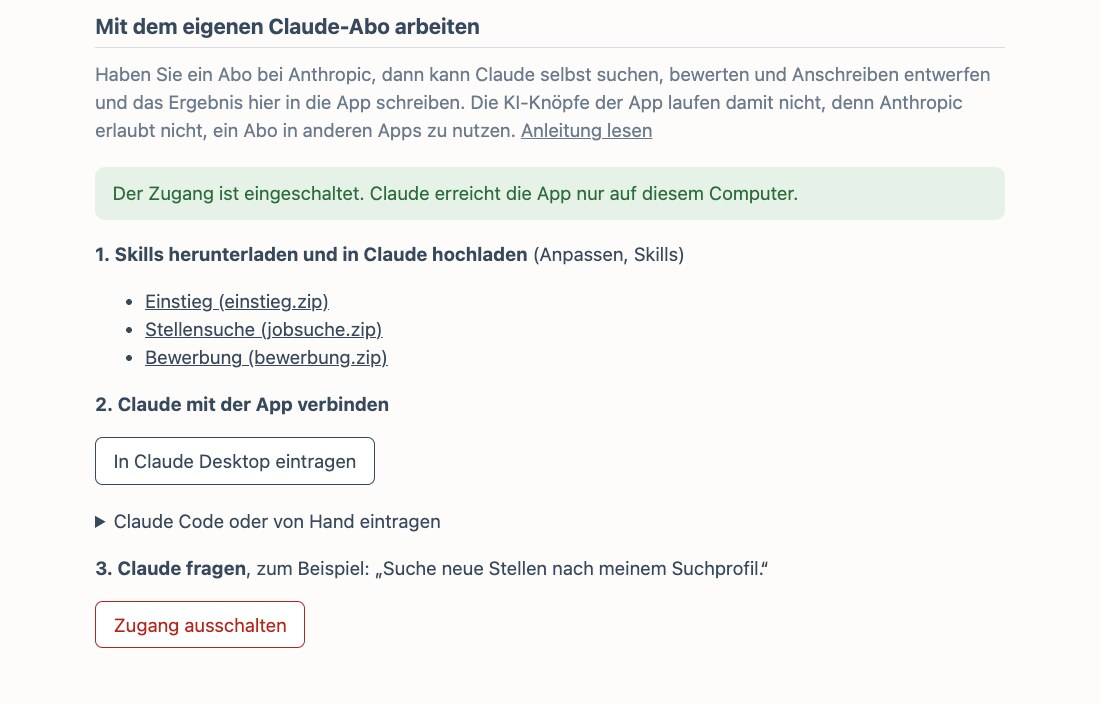
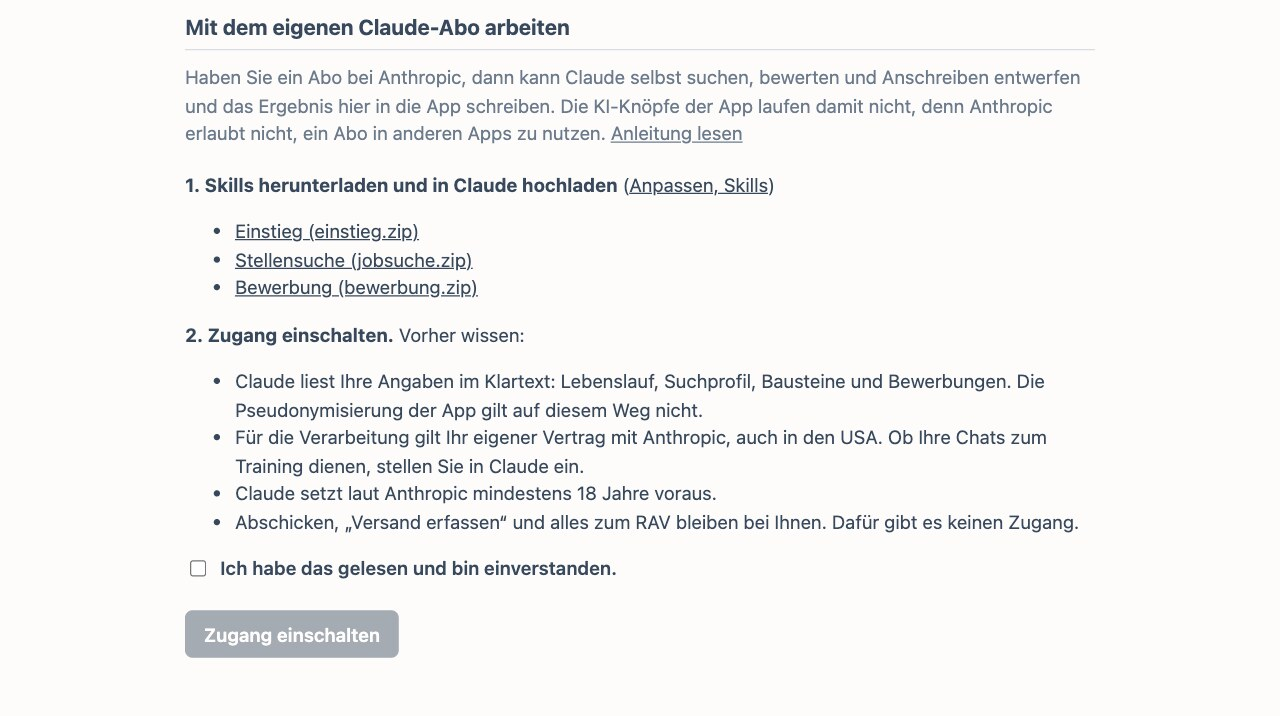
fix: an application can be prepared in the app alone, and says what it still needs (MIN-346)
Nothing in the app ever created a CV variant. Without one no PDF could be built, and without a PDF the box in the
overview stayed disabled with its reason only in a tooltip: whoever worked without Claude could not apply at all.
- Without any variant, „Unterlagen erstellen“ builds the whole CV. With variants the person still has to choose.
- Open applications say in the row what is missing and link to where to do it; the hint says when none is ready.
- The messages name the next step instead of a file or a field.

Settings (MIN-377): the skills can be downloaded at once, before the access is switched on.

Snapshot on LinkedIn (MIN-345): if the title of the tab does not name the company, it comes from the link to the
company's page next to the title of the ad. Checked on a page built like it, not on the real LinkedIn.

Claude-Session: https://claude.ai/code/session_01WgFHS5MLF7RQbuiBw169Uz

diff --git a/bewerbungen/seiten/uebersicht.js b/bewerbungen/seiten/uebersicht.js
@@ -20,6 +20,7 @@
   const ANSWER_TIMEOUT_MS = 60000;
   const ANSICHT = "uebersicht.ansicht";  // Sortierung, Suche, Filter und Scrollposition bleiben beim Seitenwechsel erhalten
   let wiederhergestellt = false;  // Scrollposition erst speichern, wenn die gemerkte gesetzt ist
+  const OFFENER_STATUS = ["Gemerkt", "Bewerben"];
   let alle = [];
   let gezeigt = "";  // the register as last drawn, to see whether Claude changed it
   let statusReihe = [];
@@ -87,12 +88,17 @@
   const toApply = () => [...chosen].filter(id => blockers.get(id) === null);
   const toEnter = () => [...chosen].filter(id => ravBlockers.get(id) === null);
 
+  /** What still stands between an open application and „Bewerben“; sent ones have nothing to do here. */
+  const fehltNoch = b => (OFFENER_STATUS.includes(b.status) ? blockers.get(b.id) : null);
+
   function updateChoice() {
     const count = toApply().length;
     $("bewerben").disabled = count === 0 || count > maxPerRun;
     $("bewerben").textContent = count ? `Bewerben (${count})` : "Bewerben";
+    const keineBereit = alle.some(fehltNoch) && ![...blockers.values()].includes(null);
     $("bewerben-hilfe").textContent = count > maxPerRun
       ? `Pro Durchgang höchstens ${maxPerRun}.`
+      : keineBereit ? "Noch ist keine Bewerbung bereit. Was fehlt, steht bei der Firma."
       : "Öffnet pro Bewerbung einen Tab und füllt das Formular aus. Abschicken bleibt bei Ihnen.";
     const entries = toEnter().length;
     $("rav").disabled = entries === 0 || entries > maxRav;
@@ -122,10 +128,12 @@
   }
 
   function zeile(b) {
-    const link = el("a", { href: "/bewerbung?id=" + encodeURIComponent(b.id) }, b.firma);
+    const adresse = "/bewerbung?id=" + encodeURIComponent(b.id);
+    const link = el("a", { href: adresse }, b.firma);
+    const fehlt = fehltNoch(b);
     return el("tr", {},
       el("td", {}, choiceBox(b)),
-      el("td", {}, link),
+      el("td", {}, link, fehlt ? el("a", { href: adresse, class: "fehlt-noch" }, fehlt) : null),
       el("td", {}, b.stelle),
       el("td", {}, el("span", { class: "marke-status", "data-status": b.status }, b.status)),
       el("td", { class: "zahl" }, b.passung ?? ""),
@@ -261,6 +269,7 @@
       await loadChoice();
       gezeigt = JSON.stringify(daten.bewerbungen);
       alle = daten.bewerbungen;
+      updateChoice();  // its hint depends on the applications, which loadChoice does not have yet
       statusReihe = daten.status;
       $("statusfilter").replaceChildren(el("option", { value: "" }, "Alle Status"),
         ...daten.status.map(s => el("option", { value: s }, `${s} (${alle.filter(b => b.status === s).length})`)));

diff --git a/erweiterung/lib/page-ad.js b/erweiterung/lib/page-ad.js
@@ -27,12 +27,23 @@ export function readPage() {
   const field = 300;
   // The main part of the page where it has one: side panels may show messages and names of other people.
   const main = document.querySelector('main, [role="main"], article');
+  // The link to the company's page beside the title of the ad; a page may list other companies further away.
+  const companyIn = (box) => [...box.querySelectorAll('a[href*="/company/"]')].map((link) => (link.innerText || '').trim().split('\n')[0]).find(Boolean) || '';
+  const companyLink = () => {
+    let box = document.querySelector('h1');
+    for (let level = 0; box && level < 8; level += 1, box = box.parentElement) {
+      const name = companyIn(box);
+      if (name) return name;
+    }
+    return main ? companyIn(main) : '';
+  };
   return {
     url: location.href,
     title: (document.title || '').slice(0, field),
     heading: (document.querySelector('h1')?.innerText || '').trim().slice(0, field),
     siteName: meta('og:site_name').slice(0, field),
     ogTitle: meta('og:title').slice(0, field),
+    companyLink: companyLink().slice(0, field),
     structured: [...document.querySelectorAll('script[type="application/ld+json"]')].slice(0, 20).map((s) => s.textContent.slice(0, limit)),
     selection: String(globalThis.getSelection?.() || '').trim().slice(0, limit),
     text: ((main && main.innerText) || document.body?.innerText || '').slice(0, limit),
@@ -160,11 +171,13 @@ export function toAd(page) {
   const pageTitle = cut(page.title);
   const siteName = cut(page.siteName);
   const linkedin = ogTitle.match(LINKEDIN_TITLE) || [];
-  const linkedinTab = (linkedinAd(page.url) && pageTitle.match(LINKEDIN_TAB)) || [];
+  const onLinkedin = Boolean(linkedinAd(page.url));
+  const linkedinTab = (onLinkedin && pageTitle.match(LINKEDIN_TAB)) || [];
+  const companyLink = onLinkedin ? cut(page.companyLink) : '';
   const tail = pageTitle.split(/\s[|–—-]\s/)[0].trim();
   return {
     stelle: cut(text(posting && posting.title) || linkedin[2] || linkedinTab[1] || page.heading || ogTitle || tail),
-    firma: cut(companyOf(posting && posting.hiringOrganization) || linkedin[1] || linkedinTab[2] || (PORTALS.test(siteName) ? '' : siteName)),
+    firma: cut(companyOf(posting && posting.hiringOrganization) || linkedin[1] || linkedinTab[2] || companyLink || (PORTALS.test(siteName) ? '' : siteName)),
     ort: cut(placeOf(posting && posting.jobLocation) || linkedin[3] || ''),
     link: adLink(page.url),
     text: found.inhalt.slice(0, MAX_TEXT),

diff --git a/bewerbungen/seiten/einstellungen.html b/bewerbungen/seiten/einstellungen.html
@@ -54,8 +54,11 @@
     <h2>Mit dem eigenen Claude-Abo arbeiten</h2>
     <p class="hilfe">Haben Sie ein Abo bei Anthropic, dann kann Claude selbst suchen, bewerten und Anschreiben entwerfen und das Ergebnis hier in die App schreiben. Die KI-Knöpfe der App laufen damit nicht, denn Anthropic erlaubt nicht, ein Abo in anderen Apps zu nutzen. <a href="https://github.com/minigraphx/bewerbungsassistent/blob/main/docs/eigenes-abo.md" target="_blank" rel="noopener">Anleitung lesen</a></p>
 
+    <p><strong>1. Skills herunterladen und in Claude hochladen</strong> (<a href="https://support.claude.com/en/articles/12512180-use-skills-in-claude" target="_blank" rel="noopener">Anpassen, Skills</a>)</p>
+    <ul id="abo-skills"></ul>
+
     <div id="abo-aus">
-      <p><strong>Bevor Sie den Zugang einschalten:</strong></p>
+      <p><strong>2. Zugang einschalten.</strong> Vorher wissen:</p>
       <ul>
         <li>Claude liest Ihre Angaben im Klartext: Lebenslauf, Suchprofil, Bausteine und Bewerbungen. Die Pseudonymisierung der App gilt auf diesem Weg nicht.</li>
         <li>Für die Verarbeitung gilt Ihr eigener Vertrag mit Anthropic, auch in den USA. Ob Ihre Chats zum Training dienen, stellen Sie in Claude ein.</li>
@@ -68,9 +71,7 @@
 
     <div id="abo-an" hidden>
       <p class="banner ok">Der Zugang ist eingeschaltet. Claude erreicht die App nur auf diesem Computer.</p>
-      <p><strong>1. Skills herunterladen und in Claude hochladen</strong> (Anpassen, Skills)</p>
-      <ul id="abo-skills"></ul>
-      <p><strong>2. Claude mit der App verbinden</strong></p>
+      <p><strong>3. Claude mit der App verbinden</strong></p>
       <div class="knoepfe"><button type="button" id="abo-desktop"></button></div>
       <p class="hilfe" id="abo-desktop-stand"></p>
       <details>
@@ -80,7 +81,7 @@
         <p class="hilfe">Claude Desktop, in der Datei <code class="pfad" id="abo-datei"></code>:</p>
         <code class="yaml" id="abo-text"></code>
       </details>
-      <p><strong>3. Claude fragen</strong>, zum Beispiel: „Suche neue Stellen nach meinem Suchprofil.“</p>
+      <p><strong>4. Claude fragen</strong>, zum Beispiel: „Suche neue Stellen nach meinem Suchprofil.“</p>
       <div class="knoepfe"><button type="button" id="abo-ausschalten" class="gefahr">Zugang ausschalten</button></div>
     </div>
     <div id="abo-meldung" class="status" role="status" aria-live="polite"></div>

diff --git a/bewerbungen/seiten/bewerbung.js b/bewerbungen/seiten/bewerbung.js
@@ -29,7 +29,7 @@
     $("untertitel").textContent = `ID ${bewerbung.id} · Status ${bewerbung.status}` +
       (bewerbung.beworben_am ? ` · beworben am ${datum(bewerbung.beworben_am)}` : "");
     optionen($("f-status"), daten.status.map(s => [s, s]), bewerbung.status);
-    optionen($("f-variante"), [["", "– keine –"], ...daten.varianten.map(v => [v.id, `${v.id}${v.beschreibung ? " – " + v.beschreibung : ""}`])],
+    optionen($("f-variante"), [["", daten.varianten.length ? "– keine –" : "– ganzer Lebenslauf –"], ...daten.varianten.map(v => [v.id, `${v.id}${v.beschreibung ? " – " + v.beschreibung : ""}`])],
       bewerbung.variante || "");
     for (const f of FELDER) {
       if (f !== "status" && f !== "variante") $("f-" + f).value = bewerbung[f] ?? "";
@@ -180,7 +180,7 @@
       zeigePdfs(daten.pdfs);
       pdfStand = JSON.stringify(daten.pdf_stand);
       zeigeZertifikate().catch(fehler => status($("zertifikate-status"), fehler.message, "fehler"));
-      if (!daten.hat_anschreiben) meldungOben("Noch kein Anschreiben (bewerbungen/" + ID + "/anschreiben.yaml) – der Skill „bewerbung“ erstellt den Entwurf.", "hinweis");
+      if (!daten.hat_anschreiben) meldungOben("Noch kein Anschreiben. Einen Entwurf erstellt „Anschreiben entwerfen“ weiter unten oder Claude mit dem Skill „bewerbung“.", "hinweis");
       if (daten.pdfs.lebenslauf) pruefen();
     } catch (fehler) {
       meldungOben("Laden fehlgeschlagen: " + fehler.message, "fehler");

diff --git a/bewerbungen/seiten/stil.css b/bewerbungen/seiten/stil.css
@@ -169,3 +169,4 @@ button.klein { padding: 2px 8px; font-size: 0.85em; margin: 0; }
 .chat-person { background: transparent; }
 .chat-beispiele { display: flex; flex-wrap: wrap; gap: 8px; margin-bottom: 14px; }
 .chat-beispiele:empty { display: none; }
+.fehlt-noch { display: block; margin-top: 4px; font-size: 0.85em; color: var(--leise); }

diff --git a/bewerbungen/unterlagen.py b/bewerbungen/unterlagen.py
@@ -13,6 +13,8 @@ from varianten import Varianten
 
 ORDNER = "bewerbungen"
 ARTEN = ("lebenslauf", "anschreiben")
+CHOOSE_VARIANT = "Keine Lebenslauf-Variante gewählt. Bitte unter „Angaben“ eine wählen und speichern."
+NO_CV = "Noch kein Lebenslauf. Bitte zuerst unter „Meine Angaben“ erfassen."
 
 
 def bewerbungsordner(daten: pathlib.Path, bewerbung_id: str) -> pathlib.Path:
@@ -26,9 +28,18 @@ def pdf_pfade(daten: pathlib.Path, bewerbung_id: str) -> dict[str, pathlib.Path]
     return {art: ordner / f"{art}.pdf" for art in ARTEN}
 
 
+def _baue_ganzen_lebenslauf(daten: pathlib.Path, build: pathlib.Path, ziel: pathlib.Path) -> None:
+    """Variants come from Claude; whoever works in the app alone has none and still needs a CV. With variants, the person chooses."""
+    if Varianten(daten).alle():
+        raise ValueError(CHOOSE_VARIANT)
+    if not (daten / "cv.yaml").is_file():
+        raise ValueError(NO_CV)
+    lebenslauf_modul.main([str(daten / "cv.yaml"), "--build-dir", str(build), "-o", str(ziel)])
+
+
 def _baue_lebenslauf(daten: pathlib.Path, bewerbung: dict, build: pathlib.Path, ziel: pathlib.Path) -> None:
     if not bewerbung.get("variante"):
-        raise ValueError("Keine Lebenslauf-Variante gewählt (Feld variante)")
+        return _baue_ganzen_lebenslauf(daten, build, ziel)
     variante = Varianten(daten).hole(bewerbung["variante"])
     if variante.get("quelle"):
         lebenslauf_modul.main([str(daten / "cv.yaml"), "--job", str(im_ordner(daten, variante["quelle"])),

diff --git a/bewerbungen/tests/test_unterlagen.py b/bewerbungen/tests/test_unterlagen.py
@@ -28,11 +28,32 @@ def test_baue_beide(datenordner, tmp_path):
     assert "Sehr geehrte Frau Meier" in PdfReader(gebaut["anschreiben"]).pages[0].extract_text()
 
 
-def test_ohne_variante(datenordner, tmp_path):
+def test_without_a_choice_among_variants_the_person_has_to_choose(datenordner, tmp_path):
     b = {**Register(datenordner).hole(BRIEF_ID)}
     del b["variante"]
 
-    with pytest.raises(ValueError, match="Variante"):
+    with pytest.raises(ValueError, match="Bitte unter „Angaben“"):
+        unterlagen.baue(datenordner, b, tmp_path / "build")
+
+
+def test_without_any_variant_the_whole_cv_is_built(datenordner, tmp_path):
+    # Variants come from Claude; whoever works in the app alone has none and must still get a CV.
+    (datenordner / "varianten.yaml").unlink()
+    b = {**Register(datenordner).hole(BRIEF_ID)}
+    del b["variante"]
+
+    built = unterlagen.baue(datenordner, b, tmp_path / "build")
+
+    assert built["lebenslauf"].is_file() and PdfReader(built["lebenslauf"]).pages
+
+
+def test_without_a_cv_it_says_where_to_enter_it(datenordner, tmp_path):
+    (datenordner / "varianten.yaml").unlink()
+    (datenordner / "cv.yaml").unlink()
+    b = {**Register(datenordner).hole(BRIEF_ID)}
+    del b["variante"]
+
+    with pytest.raises(ValueError, match="Meine Angaben"):
         unterlagen.baue(datenordner, b, tmp_path / "build")
 
 

diff --git a/bewerbungen/apply.py b/bewerbungen/apply.py
@@ -28,8 +28,8 @@ FRAME_KEYS = {"Verfügbar ab": "availability", "Kündigungsfrist": "notice", "Lo
 REFERENCES_FOLDER = "dokumente/zeugnisse"
 ALREADY_SENT = "Schon versendet"
 NOT_OPEN = "Status „{status}“"
-NO_LINK = "Kein Link zum Formular"
-NO_CV = "Lebenslauf-PDF fehlt"
+NO_LINK = "Kein Link zum Formular: öffnen und Link eintragen"
+NO_CV = "Lebenslauf-PDF fehlt: öffnen und „Unterlagen erstellen“"
 UNKNOWN_FILE = "Diese Datei gehört nicht zu dieser Bewerbung."
 UNKNOWN_PART = "Dieser Teil der Datei fehlt."
 

diff --git a/erweiterung/README.md b/erweiterung/README.md
@@ -45,7 +45,7 @@ Für Inserate ausserhalb der Portale, zum Beispiel auf LinkedIn oder den Karrier
 - **Zugriff:** `activeTab`. Der Klick auf das Symbol gibt für diesen einen Tab Zugriff; ohne Klick liest die Erweiterung auf fremden Seiten nichts und navigiert nicht. Gelesen wird beim Öffnen des Popups, damit Stelle und Firma vorausgefüllt sind. Hinaus geht erst etwas nach einem Knopfdruck.
 - **Lesen (`lib/page-ad.js`):** zuerst markierter Text, dann die strukturierten Daten der Seite (schema.org `JobPosting`), sonst der sichtbare Text des Hauptteils der Seite, wenn er nach Inserat aussieht. Dann sagt das Popup, dass der ganze Seitentext gelesen wurde, denn so kann mehr als das Inserat an die KI gehen (etwa Namen aus Seitenleisten). Stelle und Firma lassen sich im Popup korrigieren. Findet sie kein Inserat, sagt sie das und speichert nichts; markierter Text hilft dann weiter. Inhalte in eingebetteten Rahmen fremder Adressen sind nicht erreichbar, auch dort hilft Markieren nicht immer.
 - **Adresse:** Die KI bekommt die Adresse der Seite nicht. Im Register steht sie ohne Tracking- und Sitzungswerte (`utm_*`, `refId`, `midToken` und ähnliche).
-- **LinkedIn:** Angemeldet fehlen dort die strukturierten Daten. Stelle und Firma kommen dann aus dem Titel des Tabs („Stelle | Firma | LinkedIn“), und die Adresse wird zu `/jobs/view/<Nummer>/`, auch wenn das Inserat neben einer Liste offen ist. Der Aufbau ist nicht am echten LinkedIn geprüft; im Popup lässt sich alles korrigieren.
+- **LinkedIn:** Angemeldet fehlen dort die strukturierten Daten. Stelle und Firma kommen dann aus dem Titel des Tabs („Stelle | Firma | LinkedIn“), die Firma sonst aus dem Link auf ihre Seite neben dem Titel des Inserats, und die Adresse wird zu `/jobs/view/<Nummer>/`, auch wenn das Inserat neben einer Liste offen ist. Der Aufbau ist nicht am echten LinkedIn geprüft; im Popup lässt sich alles korrigieren.
 - **Ohne KI:** „Stelle speichern“ braucht weder Einladung noch Schlüssel. Nur „Stelle prüfen“ ruft die KI auf.
 - **„Stelle prüfen“** (`POST /api/seite/pruefen`): Note mit Begründung, bestehende Bewerbung und Bewerbungen bei derselben Firma. Gespeichert wird nichts. Anweisungsartige Zeilen im Inserat meldet die KI als auffällig; das Popup zeigt sie rot.
 - **„Stelle speichern“** (`POST /api/seite/speichern`): neue Bewerbung im Register mit `stelle.md` und, falls geprüft, mit der Note. Gleicher Link mit gleichem Titel oder gleiche Firma mit gleichem Titel ergeben keinen zweiten Eintrag; das Popup nennt den bestehenden. Mehrere Inserate unter einer Adresse bleiben getrennt, und nach einer Absage lässt sich dieselbe Stelle neu erfassen.

diff --git a/docs/eigenes-abo.md b/docs/eigenes-abo.md
@@ -31,11 +31,11 @@ Abschicken, „Versand erfassen“, Anmeldungen und alles zum RAV bleiben bei Ih
 Sie brauchen ein bezahltes Abo, weil [Claude in Chrome](https://support.claude.com/en/articles/12012173-get-started-with-claude-in-chrome) nur damit läuft.
 
 1. **App laden und starten**, wie in der [Installation](installation.md) beschrieben. Die Einladung können Sie überspringen. Die [Browser-Erweiterung des Bewerbungsassistenten](installation.md#schritt-4-browser-erweiterung) brauchen Sie, um Inserate von LinkedIn und anderen Seiten einzulesen.
-2. **Zugang einschalten:** In der App unter Menü, „Erweiterte Einstellungen“, Abschnitt „Mit dem eigenen Claude-Abo arbeiten“. Hinweise lesen, Häkchen setzen, „Zugang einschalten“.
+2. **Skills hochladen:** In der App unter Menü, „Erweiterte Einstellungen“, Abschnitt „Mit dem eigenen Claude-Abo arbeiten“, laden Sie `einstieg.zip`, `jobsuche.zip` und `bewerbung.zip` herunter. In Claude: [Anpassen, Skills, „+“, Skill hochladen](https://support.claude.com/en/articles/12512180-use-skills-in-claude). Einmal pro Datei; entpacken ist nicht nötig.
+3. **Zugang einschalten:** Im selben Abschnitt. Hinweise lesen, Häkchen setzen, „Zugang einschalten“.
 
-   ![Abschnitt „Mit dem eigenen Claude-Abo arbeiten“ in den erweiterten Einstellungen, mit den drei Skills, dem Knopf zum Eintragen in Claude Desktop und dem Knopf zum Ausschalten](bilder/einstellungen-claude.jpg)
+   ![Abschnitt „Mit dem eigenen Claude-Abo arbeiten“ in den erweiterten Einstellungen, mit den drei Skills zum Herunterladen, den Hinweisen vor dem Einschalten und dem Knopf „Zugang einschalten“](bilder/einstellungen-claude.jpg)
 
-3. **Skills hochladen:** Laden Sie im selben Abschnitt `einstieg.zip`, `jobsuche.zip` und `bewerbung.zip` herunter. In Claude: [Anpassen, Skills, „+“, Skill hochladen](https://support.claude.com/en/articles/12512180-use-skills-in-claude). Einmal pro Datei; entpacken ist nicht nötig.
 4. **Claude mit der App verbinden:** „In Claude Desktop eintragen“ klicken und Claude Desktop einmal ganz beenden und neu öffnen. Die App ändert nur ihren eigenen Eintrag und legt die alte Datei daneben. Claude Code statt Desktop: Der Befehl steht unter „Claude Code oder von Hand eintragen“. Claude Code liest Skills aus dem Ordner `~/.claude/skills/`; entpacken Sie die drei ZIP-Dateien dort.
 5. **Browser verbinden:** In Chrome die Erweiterung [Claude in Chrome](https://claude.com/claude-in-chrome) installieren und anmelden. In Claude Desktop unter Einstellungen, Anpassen, Connectors den Eintrag „Claude in Chrome“ einschalten. In Claude Code: `claude --chrome`.
 

diff --git a/README.md b/README.md
@@ -26,7 +26,7 @@ Alle Bilder zeigen frei erfundene Beispieldaten.
 
 **Übersicht der Bewerbungen:** Stand, Passung (Note 1–6) und Lebenslauf-Variante jeder Stelle auf einen Blick. Von hier aus bewerben Sie sich über die Formulare der Firmen und tragen abgeschickte Bewerbungen im Job-Room ein; speichern und abschicken tun immer Sie.
 
-![Übersicht der Bewerbungen mit Häkchen, Knöpfen „Bewerben“ und „Im RAV eintragen“, Status, Passung, Variante, Stand des Formulars und Datum des RAV-Eintrags](docs/bilder/uebersicht.jpg)
+![Übersicht der Bewerbungen mit Häkchen, Knöpfen „Bewerben“ und „Im RAV eintragen“, was bei einer Firma noch fehlt, Status, Passung, Variante, Stand des Formulars und Datum des RAV-Eintrags](docs/bilder/uebersicht.jpg)
 
 **Stellensuche:** Die Browser-Erweiterung sucht auf job-room, jobs.ch, jobscout24 und ictjobs nach dem Suchprofil, bei einem Suchprofil für Lehrstellen auf LENA und yousty, wahlweise nach Lehrstellen, Schnupperlehren oder beidem. Neue Stellen landen hier, nicht direkt im Register. Die KI bewertet die Passung in Paketen von zehn, nach der Suche von selbst (höchstens 30 pro Suche, abschaltbar) oder auf Knopfdruck. Bei Lehrstellen zählt der eigene Beruf mit Sternen zuerst. Dieselbe Stelle von einem zweiten Portal ist angehängt (+1), und bei einer Firma mit laufender Bewerbung steht ein Hinweis. Inserate von anderen Seiten, etwa LinkedIn, prüft oder speichert die Erweiterung auf Klick.
 

diff --git a/docs/installation.md b/docs/installation.md
@@ -70,6 +70,7 @@ Die Erweiterung steht dann in der Liste, und in der App erscheint von selbst „
 1. **Meine Angaben** (im Menü): Wählen Sie die Stellensuche und erfassen Sie Lebenslauf und Suchprofil. Vorhandene Unterlagen als PDF oder Word können Sie hochladen. Die KI macht daraus Vorschläge, und Sie prüfen jeden davon. Zum Schluss klicken Sie auf **Übernehmen**. Erst danach zählen Ihre Angaben für die Suche.
 2. **Suche**: Klicken Sie auf **Stellen suchen**. Die Erweiterung sucht auf den Portalen, in Ihrem Browser und nur, wenn Sie die Suche starten. Ohne gewählte Kantone sucht sie in der ganzen Schweiz; Stellen nahe Ihrem Wohnort stehen dann zuerst. Unter **Wo suchen Sie?** wählen Sie die Portale. Passen Ihre Begriffe nicht zur Informatik, ist ictjobs zu Beginn ausgeschaltet. Pro Portal holt ein Lauf höchstens 150 neue Inserate, der Rest kommt bei der nächsten Suche.
 3. **Bewerten** lässt die KI einschätzen, wie gut eine Stelle zu Ihnen passt. **Übernehmen** legt eine Bewerbung an, **Verwerfen** blendet den Treffer aus.
+4. **Bewerben**: Öffnen Sie unter **Bewerbungen** eine Firma und klicken Sie auf **Unterlagen erstellen**. Erst dann lässt sie sich in der Übersicht ankreuzen; was noch fehlt, steht dort bei der Firma. **Bewerben** öffnet das Formular und füllt es aus.
 
 Abgeschickt wird eine Bewerbung immer von Ihnen selbst.
 
